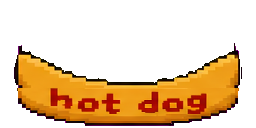
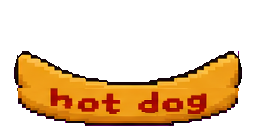
fix: connect hotdog bed outline

diff --git a/js/main.js b/js/main.js
@@ -53,9 +53,9 @@ document.addEventListener("DOMContentLoaded", () => {
     if (document.querySelector('link[data-desktop-pet-style]')) return;
     const petStyles = document.createElement("link");
     petStyles.rel = "stylesheet";
-    petStyles.href = new URL("css/desktop-pet.css?v=1.8.2", siteRoot).href;
+    petStyles.href = new URL("css/desktop-pet.css?v=1.8.3", siteRoot).href;
     petStyles.dataset.desktopPetStyle = "true";
-    const petModuleUrl = new URL("js/desktop-pet.js?v=1.8.2", siteRoot).href;
+    const petModuleUrl = new URL("js/desktop-pet.js?v=1.8.3", siteRoot).href;
     // 样式就绪后再加载组件，避免慢速网络下未应用 CSS 的桌宠短暂闪现。
     petStyles.addEventListener("load", () => {
       void import(petModuleUrl).catch((error) => console.error(`桌宠模块加载失败：${petModuleUrl}`, error));

diff --git a/js/desktop-pet.js b/js/desktop-pet.js
@@ -148,7 +148,7 @@ var SpriteTransitionController = class {
 };
 
 // ../src/components/DesktopPet/petAssets.ts
-var petAssetVersion = "1.8.2";
+var petAssetVersion = "1.8.3";
 var petAsset = (fileName) => new URL(`../images/pet/${fileName}?v=${petAssetVersion}`, import.meta.url).href;
 var petSprite = (fileName, fps, loop = true, offsetY = 0) => ({
   src: petAsset(fileName),

diff --git a/src/components/DesktopPet/petAssets.ts b/src/components/DesktopPet/petAssets.ts
@@ -1,6 +1,6 @@
 import type { PetState, SpriteDefinition } from "./types";
 
-const petAssetVersion = "1.8.2";
+const petAssetVersion = "1.8.3";
 const petAsset = (fileName: string): string =>
   new URL(`../images/pet/${fileName}?v=${petAssetVersion}`, import.meta.url).href;
 
